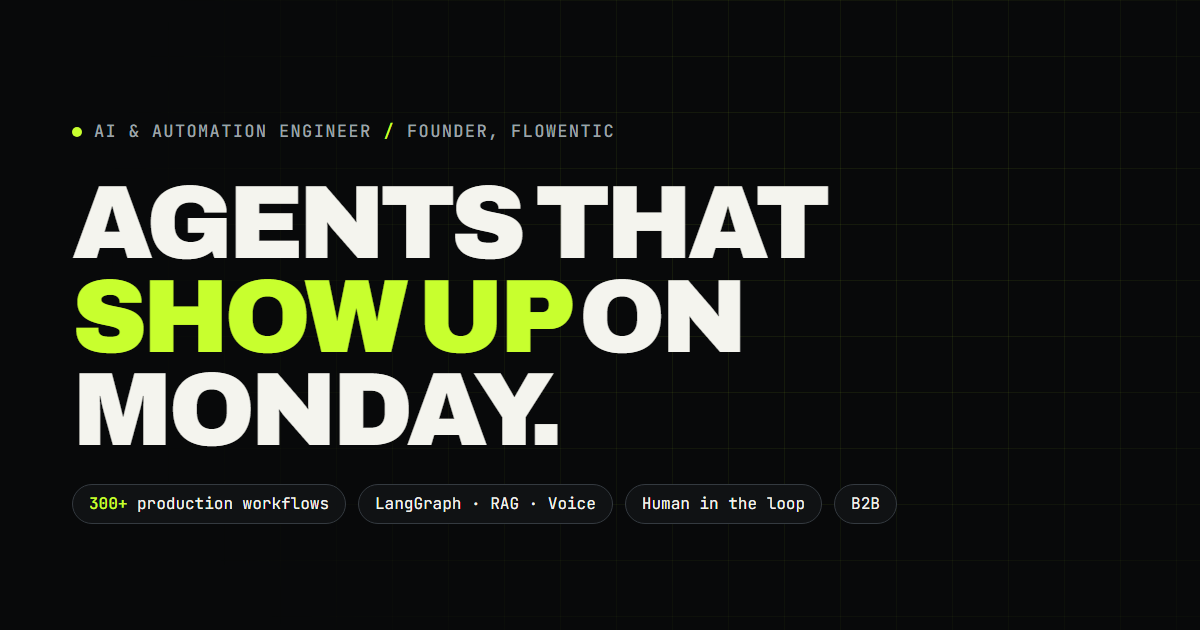
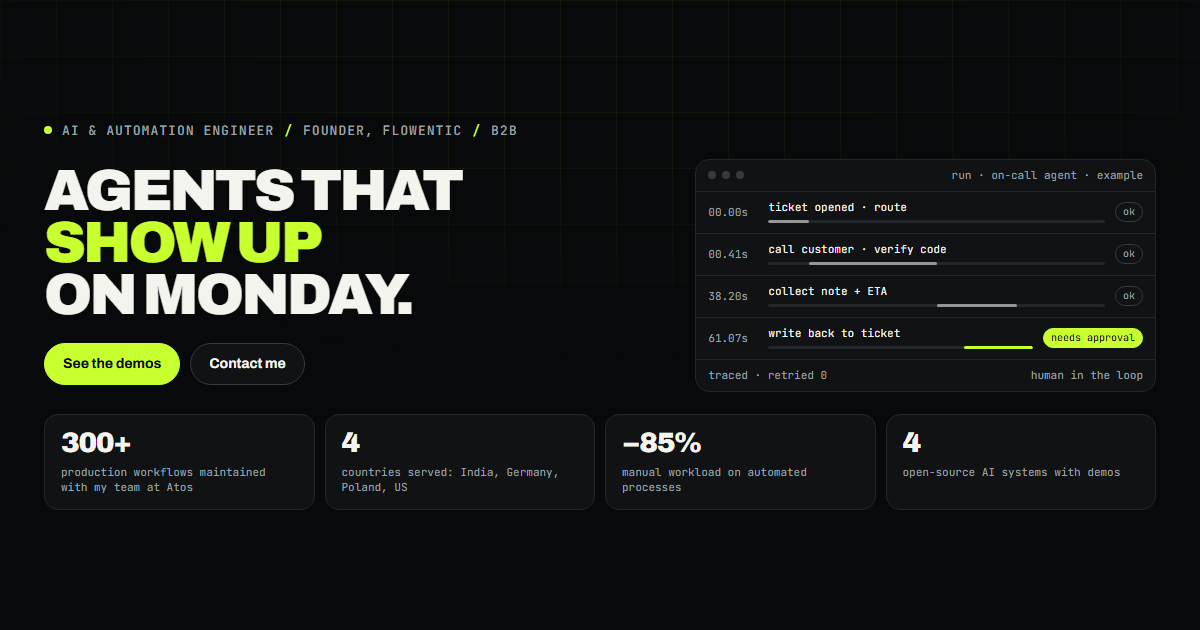
Drop redundant hero copy and refresh the share image
The headline already carries the positioning; the kitchen and Atos
story live in the track record. The OG card now matches the hero.

diff --git a/brand/share-image.html b/brand/share-image.html
@@ -5,32 +5,66 @@
 <title>Share image — George Rusu</title>
 <meta name="robots" content="noindex" />
 <!-- Source of images/preview.png (1200 × 630), the image shown when the site is shared. -->
-<link href="https://fonts.googleapis.com/css2?family=Archivo:wght@500;900&family=JetBrains+Mono:wght@400;500&display=swap" rel="stylesheet" />
+<link href="https://fonts.googleapis.com/css2?family=Archivo:wght@400;500;700;900&family=JetBrains+Mono:wght@400;500&display=swap" rel="stylesheet" />
 <style>
-  html, body { margin: 0; }
-  .b { width: 1200px; height: 630px; position: relative; overflow: hidden; background: #08090a; color: #f4f4ee; font-family: "Archivo", Arial, sans-serif; }
-  .b::before { content: ""; position: absolute; inset: 0; background-image: linear-gradient(rgba(200, 255, 46, .07) 1px, transparent 1px), linear-gradient(90deg, rgba(200, 255, 46, .07) 1px, transparent 1px); background-size: 56px 56px; -webkit-mask-image: radial-gradient(ellipse 80% 120% at 70% 40%, #000 20%, transparent 78%); mask-image: radial-gradient(ellipse 80% 120% at 70% 40%, #000 20%, transparent 78%); }
-  .in { position: absolute; left: 72px; right: 72px; top: 0; bottom: 0; display: flex; flex-direction: column; justify-content: center; }
-  .tag { font: 500 17px/1 "JetBrains Mono", monospace; letter-spacing: .08em; text-transform: uppercase; color: #9ea3a8; display: flex; align-items: center; gap: 12px; }
-  .tag i { width: 10px; height: 10px; border-radius: 50%; background: #c8ff2e; }
+  html, body { margin: 0; width: 1200px; height: 630px; overflow: hidden; background: #08090a; }
+  .b { width: 1200px; height: 630px; position: relative; overflow: hidden; background: #08090a; color: #f4f4ee; font-family: "Archivo", Arial, sans-serif; box-sizing: border-box; padding: 36px 44px 32px; display: flex; flex-direction: column; }
+  .b::before { content: ""; position: absolute; inset: 0; background-image: linear-gradient(rgba(200, 255, 46, .05) 1px, transparent 1px), linear-gradient(90deg, rgba(200, 255, 46, .05) 1px, transparent 1px); background-size: 56px 56px; -webkit-mask-image: radial-gradient(ellipse 85% 75% at 50% 0%, #000 30%, transparent 78%); mask-image: radial-gradient(ellipse 85% 75% at 50% 0%, #000 30%, transparent 78%); pointer-events: none; }
+  .in { position: relative; display: flex; flex-direction: column; flex: 1; min-height: 0; justify-content: center; }
+  .tag { margin: 0; font: 500 13px/1 "JetBrains Mono", monospace; letter-spacing: .08em; text-transform: uppercase; color: #9ea3a8; display: flex; align-items: center; gap: 10px; }
+  .tag i { width: 8px; height: 8px; border-radius: 50%; background: #c8ff2e; }
   .tag b { color: #c8ff2e; font-weight: 500; }
-  h1 { margin: 20px 0 0; font: 900 104px/.9 "Archivo", sans-serif; letter-spacing: -.045em; text-transform: uppercase; }
+  .hero-grid { display: grid; grid-template-columns: 1.15fr .85fr; gap: 28px; align-items: center; margin-top: 22px; }
+  h1 { margin: 0; font: 900 58px/.9 "Archivo", sans-serif; letter-spacing: -.05em; text-transform: uppercase; }
+  h1 span { display: block; white-space: nowrap; }
   h1 em { font-style: normal; color: #c8ff2e; }
-  .row { display: flex; gap: 12px; margin-top: 26px; }
-  .row span { font: 400 16px/1 "JetBrains Mono", monospace; padding: 11px 16px; border-radius: 999px; border: 1px solid #343a40; background: #101214; color: #f4f4ee; }
-  .row span b { color: #c8ff2e; font-weight: 500; }
+  .actions { display: flex; gap: 10px; margin-top: 22px; }
+  .btn { display: inline-flex; align-items: center; justify-content: center; min-height: 40px; padding: 0 18px; border: 1px solid #343a40; border-radius: 999px; font: 700 14px/1 "Archivo", sans-serif; background: #101214; color: #f4f4ee; }
+  .btn.solid { background: #c8ff2e; border-color: #c8ff2e; color: #0a0a0a; }
+  .trace { background: #101214; border: 1px solid #23272b; border-radius: 14px; overflow: hidden; font: 400 11px/1 "JetBrains Mono", monospace; }
+  .trace-top { display: flex; align-items: center; gap: 6px; padding: 10px 12px; border-bottom: 1px solid #23272b; color: #9ea3a8; }
+  .trace-top i { width: 8px; height: 8px; border-radius: 50%; background: #343a40; }
+  .trace-top span { margin-left: auto; }
+  .tr { display: grid; grid-template-columns: 50px 1fr auto; gap: 10px; align-items: center; padding: 10px 12px; border-bottom: 1px solid #23272b; }
+  .tr time { color: #9ea3a8; }
+  .tr .bar-line { display: block; height: 3px; margin-top: 7px; border-radius: 2px; background: #23272b; position: relative; overflow: hidden; }
+  .tr .bar-line::after { content: ""; position: absolute; inset: 0 auto 0 var(--x, 0); width: var(--w, 30%); border-radius: 2px; background: #f4f4ee; opacity: .55; }
+  .tr small { font-size: 10px; color: #9ea3a8; padding: 4px 7px; border: 1px solid #343a40; border-radius: 999px; }
+  .tr.wait .bar-line::after { background: #c8ff2e; opacity: 1; }
+  .tr.wait small { color: #0a0a0a; background: #c8ff2e; border-color: #c8ff2e; }
+  .trace-foot { display: flex; justify-content: space-between; padding: 10px 12px; color: #9ea3a8; }
+  .stats { display: grid; grid-template-columns: repeat(4, 1fr); gap: 10px; margin-top: 22px; }
+  .stat { padding: 14px 16px; border: 1px solid #23272b; border-radius: 14px; background: #101214; }
+  .stat b { display: block; font-weight: 900; font-size: 28px; letter-spacing: -.045em; line-height: 1; }
+  .stat span { display: block; margin-top: 8px; font: 400 11px/1.4 "JetBrains Mono", monospace; color: #9ea3a8; }
 </style>
 </head>
 <body>
 <div class="b">
   <div class="in">
-    <p class="tag"><i></i>AI &amp; Automation Engineer <b>/</b> Founder, FLOWENTIC</p>
-    <h1>Agents that <em>show up</em> on Monday.</h1>
-    <div class="row">
-      <span><b>300+</b> production workflows</span>
-      <span>LangGraph · RAG · Voice</span>
-      <span>Human in the loop</span>
-      <span>B2B</span>
+    <p class="tag"><i></i>AI &amp; Automation Engineer <b>/</b> Founder, FLOWENTIC <b>/</b> B2B</p>
+    <div class="hero-grid">
+      <div>
+        <h1><span>Agents that</span> <span><em>show up</em></span> <span>on Monday.</span></h1>
+        <div class="actions">
+          <span class="btn solid">See the demos</span>
+          <span class="btn">Contact me</span>
+        </div>
+      </div>
+      <div class="trace">
+        <div class="trace-top"><i></i><i></i><i></i><span>run · on-call agent · example</span></div>
+        <div class="tr"><time>00.00s</time><div>ticket opened · route<span class="bar-line" style="--x:0;--w:12%"></span></div><small>ok</small></div>
+        <div class="tr"><time>00.41s</time><div>call customer · verify code<span class="bar-line" style="--x:12%;--w:38%"></span></div><small>ok</small></div>
+        <div class="tr"><time>38.20s</time><div>collect note + ETA<span class="bar-line" style="--x:50%;--w:24%"></span></div><small>ok</small></div>
+        <div class="tr wait"><time>61.07s</time><div>write back to ticket<span class="bar-line" style="--x:74%;--w:26%"></span></div><small>needs approval</small></div>
+        <div class="trace-foot"><span>traced · retried 0</span><span>human in the loop</span></div>
+      </div>
+    </div>
+    <div class="stats">
+      <div class="stat"><b>300+</b><span>production workflows maintained with my team at Atos</span></div>
+      <div class="stat"><b>4</b><span>countries served: India, Germany, Poland, US</span></div>
+      <div class="stat"><b>−85%</b><span>manual workload on automated processes</span></div>
+      <div class="stat"><b>4</b><span>open-source AI systems with demos</span></div>
     </div>
   </div>
 </div>

diff --git a/css/site.css b/css/site.css
@@ -91,10 +91,7 @@ section { padding: 104px 0; }
 h1 { font-size: clamp(42px, 6.9vw, 92px); letter-spacing: -.05em; line-height: .92; }
 .hero h1 span { display: block; white-space: nowrap; }
 .page-head h1 { font-size: clamp(48px, 9vw, 124px); }
-.pitch { margin-top: 20px; color: var(--ink); font-size: clamp(16px, 1.45vw, 19px); font-weight: 500; line-height: 1.4; max-width: 42ch; }
-.lede { margin-top: 28px; color: var(--soft); font-size: clamp(18px, 1.6vw, 21px); line-height: 1.5; max-width: 46ch; }
-.pitch + .lede { margin-top: 16px; }
-.lede b { color: var(--ink); font-weight: 600; }
+
 
 /* Run trace: the signature panel */
 .trace { background: var(--panel); border: 1px solid var(--line); border-radius: var(--r); overflow: hidden; font: 400 13px/1 var(--mono); box-shadow: 0 40px 90px -40px rgba(0, 0, 0, .8); }

diff --git a/index.html b/index.html
@@ -65,8 +65,6 @@
       <div class="hero-grid">
         <div>
           <h1><span>Agents that</span> <span><em>show up</em></span> <span>on Monday.</span></h1>
-          <p class="pitch">AI Engineer: LLM agents, workflow automation, human-in-the-loop systems.</p>
-          <p class="lede">Eight years running kitchens. Four years maintaining <b>300+ production workflows</b> with my team at a global enterprise. Now I build AI systems that survive real work: the dropped call, the wrong input, the step a human must approve.</p>
           <div class="actions">
             <a class="btn solid" href="#work">See the demos</a>
             <a class="btn" href="mailto:george@flowentic.com">Contact me</a>
